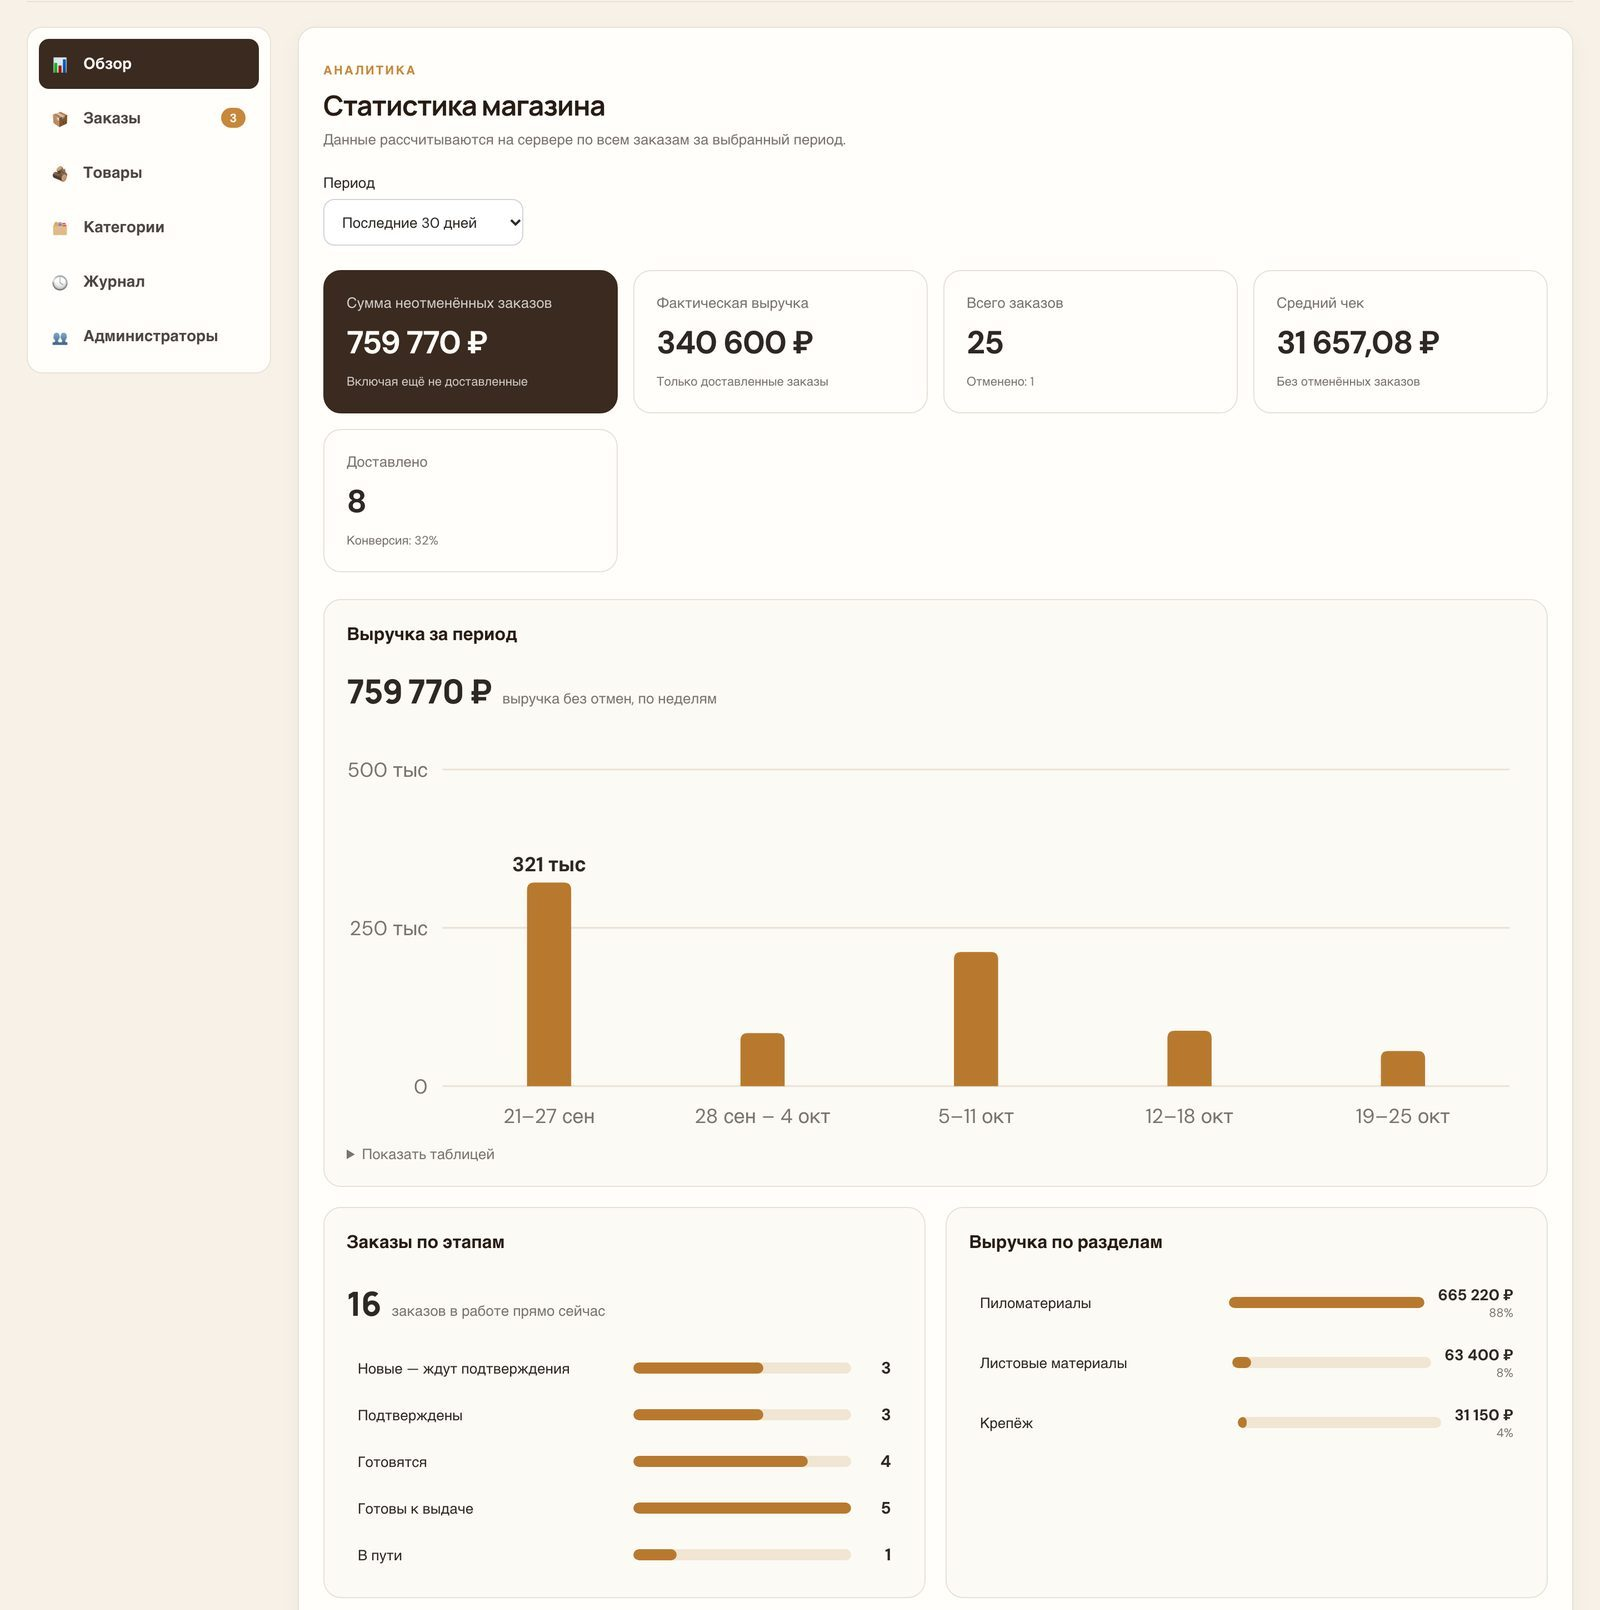
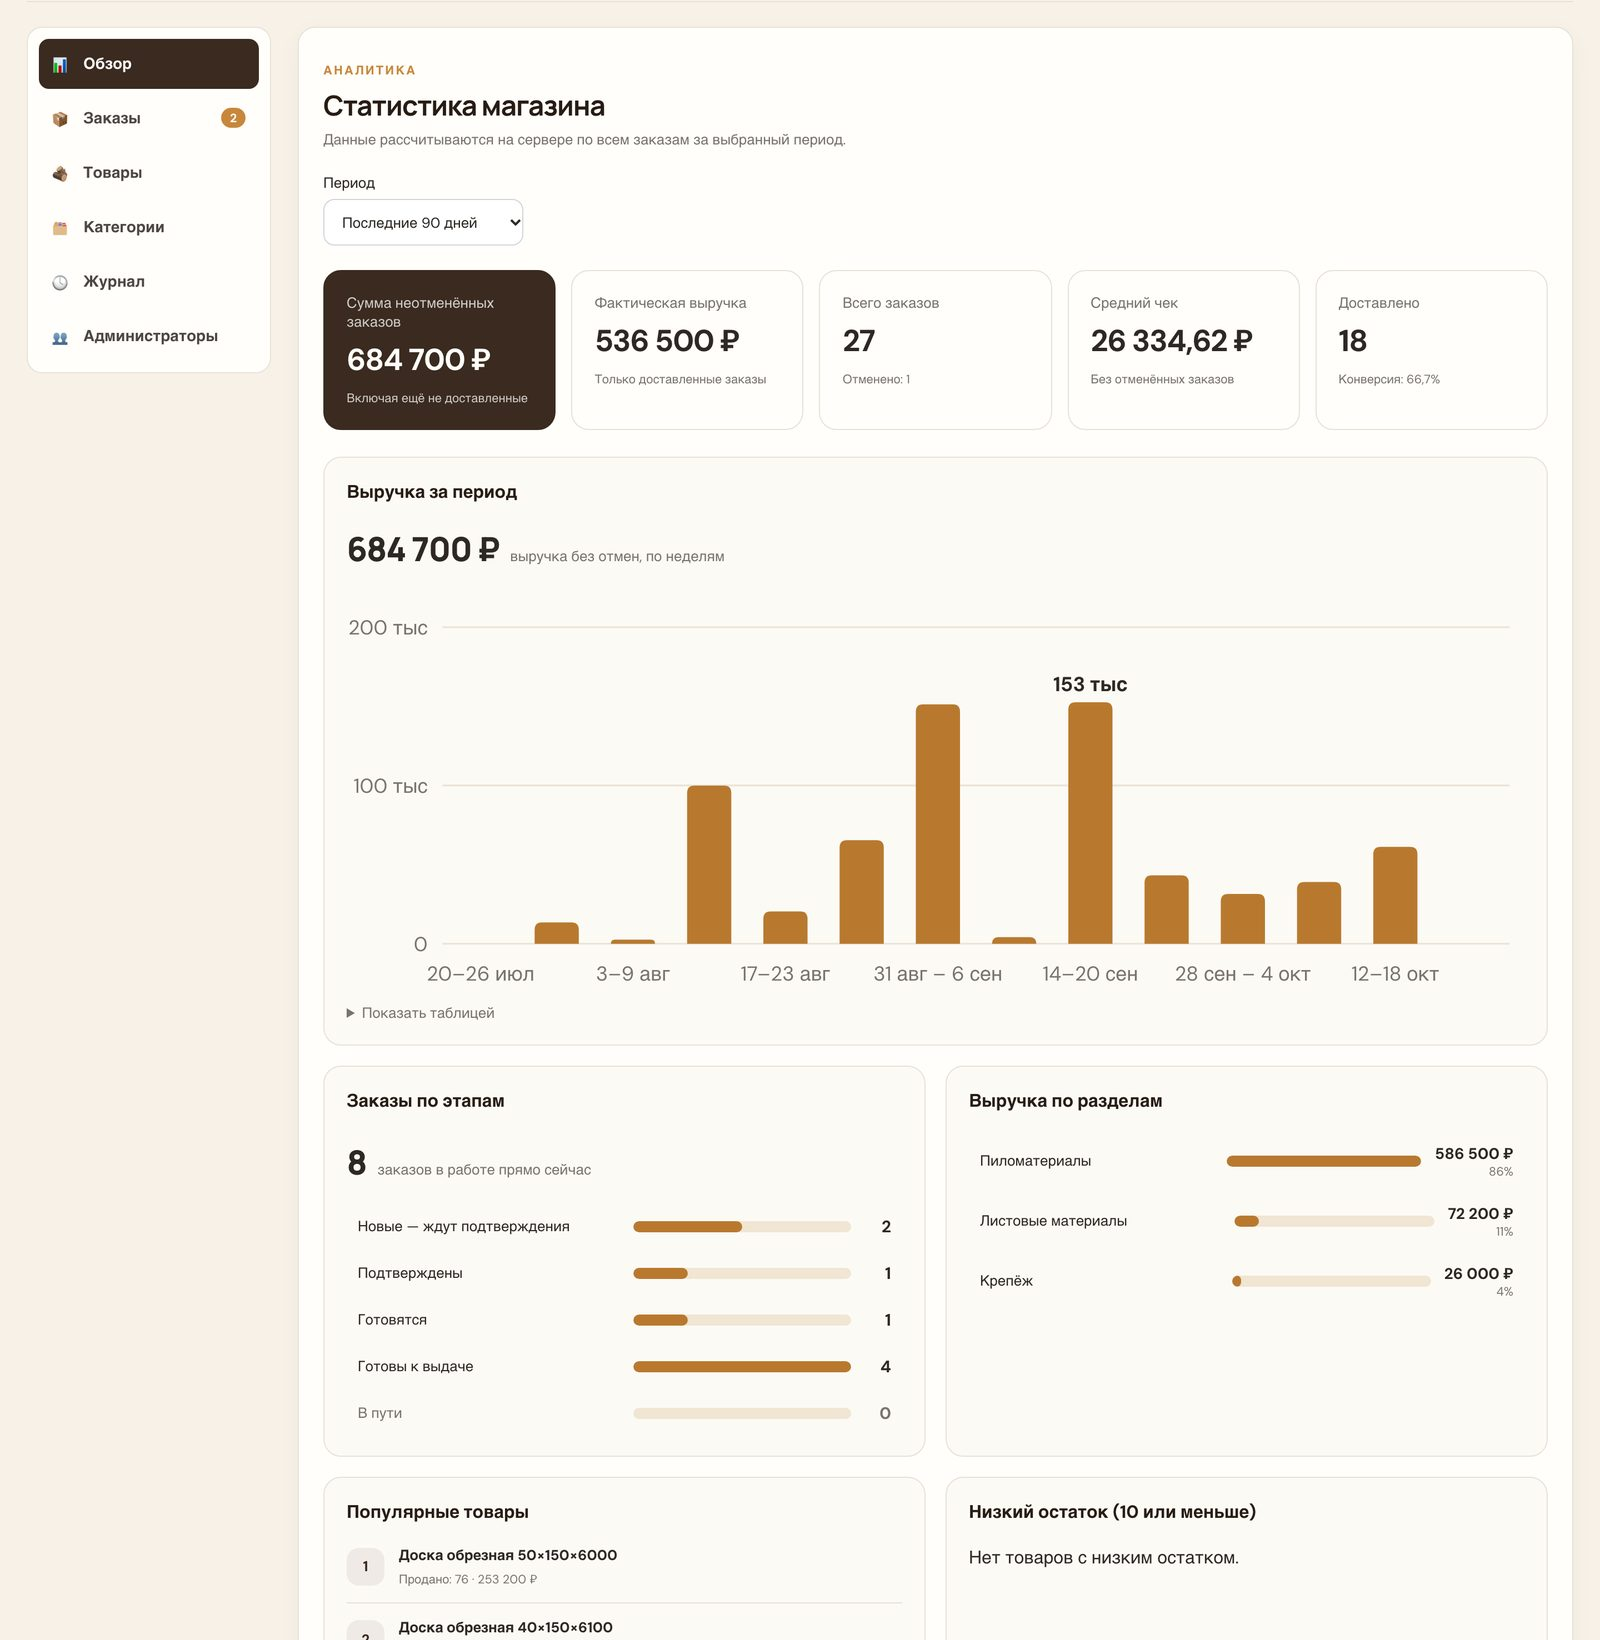
Show the pickup path in the README diagram and even out admin overview
- README order lifecycle: "Ready" -> "Issued" arrow for pickup orders
- Five overview cards in one row on wide screens; on narrow ones the main
  card spans the row and the rest go two by two
- Low stock panel joins the grid, so overview panels form an even 2x2
- Fresh admin analytics screenshot

diff --git a/frontend/src/Admin.tsx b/frontend/src/Admin.tsx
@@ -1169,7 +1169,7 @@ function Admin() {
           </div>
           {analyticsError && <p className="admin-error">{analyticsError}</p>}
           {analytics && <>
-            <div className="admin-stats-grid">
+            <div className="admin-stats-grid admin-kpi-grid">
               <article className="admin-stat-card admin-stat-primary"><span>Сумма неотменённых заказов</span><strong>{analytics.revenue.not_cancelled.toLocaleString("ru-RU", { maximumFractionDigits: 2 })} ₽</strong><small>Включая ещё не доставленные</small></article>
               <article className="admin-stat-card"><span>Фактическая выручка</span><strong>{analytics.revenue.delivered.toLocaleString("ru-RU", { maximumFractionDigits: 2 })} ₽</strong><small>Только доставленные заказы</small></article>
               <article className="admin-stat-card"><span>Всего заказов</span><strong>{analytics.orders.total}</strong><small>Отменено: {analytics.orders.cancelled}</small></article>
@@ -1203,12 +1203,12 @@ function Admin() {
                   </div>)}
                 </div>}
               </div>
-            </div>
-            <div className="admin-stat-panel admin-low-stock-panel">
-              <h3>Низкий остаток (10 или меньше)</h3>
-              {analytics.low_stock_products.length === 0 ? <p className="admin-empty">Нет товаров с низким остатком.</p> : <div className="admin-low-stock-list">
-                {analytics.low_stock_products.map((product) => <div className="admin-low-stock-item" key={product.id}><strong>{product.name}</strong><span>{product.stock_quantity} {product.unit}</span></div>)}
-              </div>}
+              <div className="admin-stat-panel admin-low-stock-panel">
+                <h3>Низкий остаток (10 или меньше)</h3>
+                {analytics.low_stock_products.length === 0 ? <p className="admin-empty">Нет товаров с низким остатком.</p> : <div className="admin-low-stock-list">
+                  {analytics.low_stock_products.map((product) => <div className="admin-low-stock-item" key={product.id}><strong>{product.name}</strong><span>{product.stock_quantity} {product.unit}</span></div>)}
+                </div>}
+              </div>
             </div>
             <AdminReports token={token} period={analyticsPeriod} dateFrom={analyticsFrom} dateTo={analyticsTo} />
           </>}

diff --git a/frontend/src/Admin.css b/frontend/src/Admin.css
@@ -549,7 +549,7 @@ label.admin-btn { margin: 0; }
 .admin-analytics-legend { display:flex; flex-wrap:wrap; align-items:center; gap:8px; font-size:12px; }
 .admin-analytics-legend span { display:inline-block; width:9px; height:9px; border-radius:3px; }
 .admin-analytics-legend-revenue { background:#3478f6; } .admin-analytics-legend-orders { background:#21a179; }
-.admin-low-stock-panel { margin-top:18px; } .admin-low-stock-list { display:grid; gap:8px; }
+.admin-low-stock-list { display:grid; gap:8px; }
 .admin-low-stock-item { display:flex; align-items:center; justify-content:space-between; gap:12px; padding:10px 12px; border:1px solid var(--border,#e5e7eb); border-radius:10px; }
 .admin-low-stock-item span { color:#b45309; font-weight:700; white-space:nowrap; }
 
@@ -727,3 +727,13 @@ label.admin-btn { margin: 0; }
 .admin-repeat strong { color: var(--admin-ink); font: 800 26px "Manrope", sans-serif; }
 .admin-repeat span { color: var(--admin-muted); font-size: 13px; }
 @media (max-width: 900px) { .admin-reports-grid { grid-template-columns: 1fr; } }
+
+/* Пять карточек сводки: в один ряд на широком экране, иначе главная — во всю
+   ширину, остальные по две (без «осиротевшей» пятой карточки) */
+.admin-kpi-grid { grid-template-columns: repeat(5, minmax(0, 1fr)); }
+.admin-kpi-grid .admin-stat-card > strong { font-size: clamp(20px, 1.9vw, 30px); white-space: nowrap; }
+@media (max-width: 1250px) {
+  .admin-kpi-grid { grid-template-columns: repeat(2, minmax(0, 1fr)); }
+  .admin-kpi-grid .admin-stat-primary { grid-column: 1 / -1; }
+  .admin-kpi-grid .admin-stat-card > strong { font-size: clamp(22px, 4vw, 30px); }
+}

diff --git a/README.md b/README.md
@@ -95,15 +95,16 @@ stateDiagram-v2
     NEW --> CONFIRMED
     CONFIRMED --> PREPARING
     PREPARING --> READY_FOR_DELIVERY
-    READY_FOR_DELIVERY --> ON_THE_WAY
+    READY_FOR_DELIVERY --> ON_THE_WAY: доставка
     ON_THE_WAY --> DELIVERED
+    READY_FOR_DELIVERY --> DELIVERED: самовывоз
     NEW --> CANCELLED
     READY_FOR_DELIVERY --> CANCELLED
     DELIVERED --> [*]
     CANCELLED --> [*]
 ```
 
-<sub>Жизненный цикл заказа (упрощённо; отмена возможна со всех этапов до «В пути» — см. диаграммы).</sub>
+<sub>Жизненный цикл заказа (упрощённо): доставка идёт через «В пути», самовывоз из «Готов к выдаче» сразу становится «Выдан». Отмена возможна со всех этапов до «В пути» — см. диаграммы.</sub>
 
 ### Связи таблиц
 
